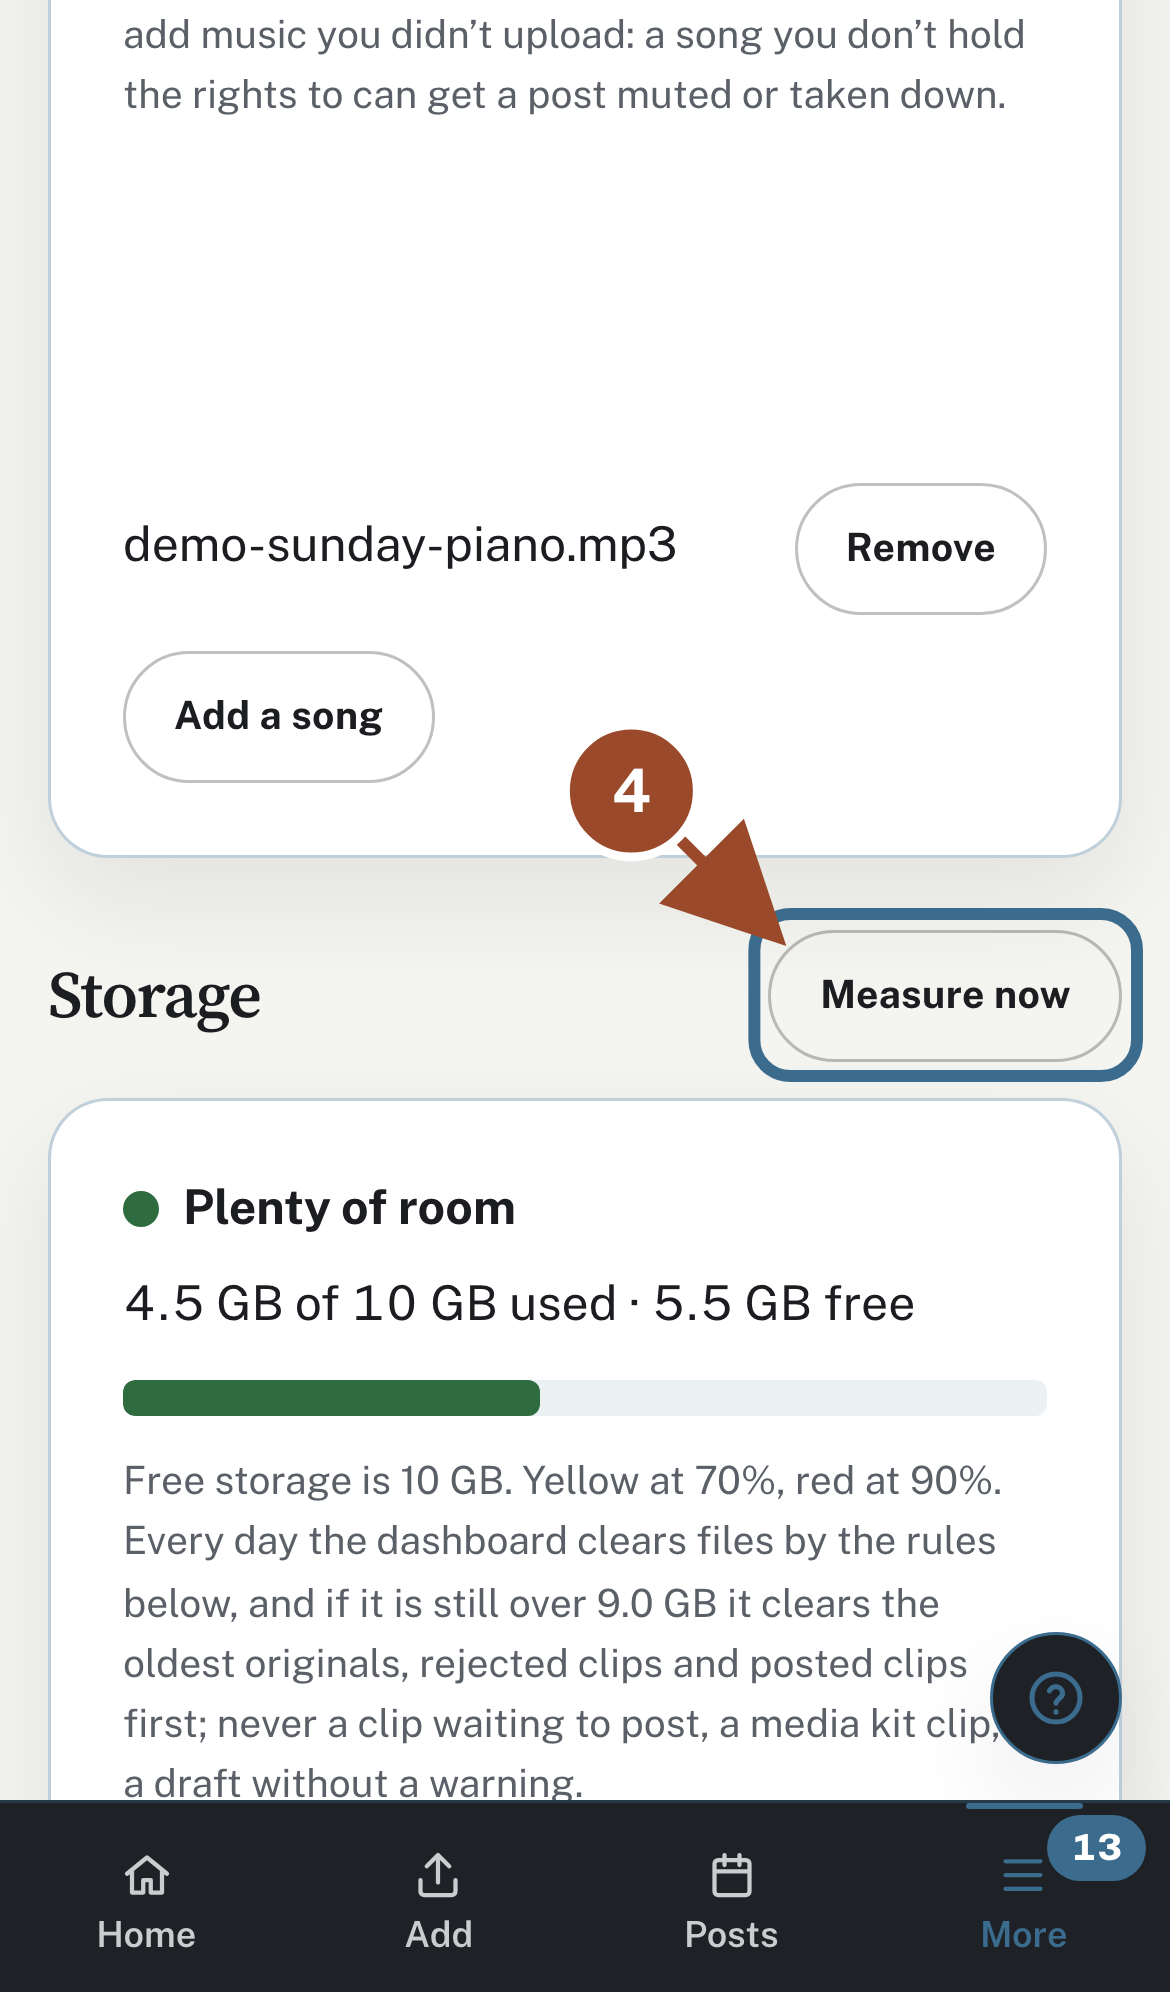
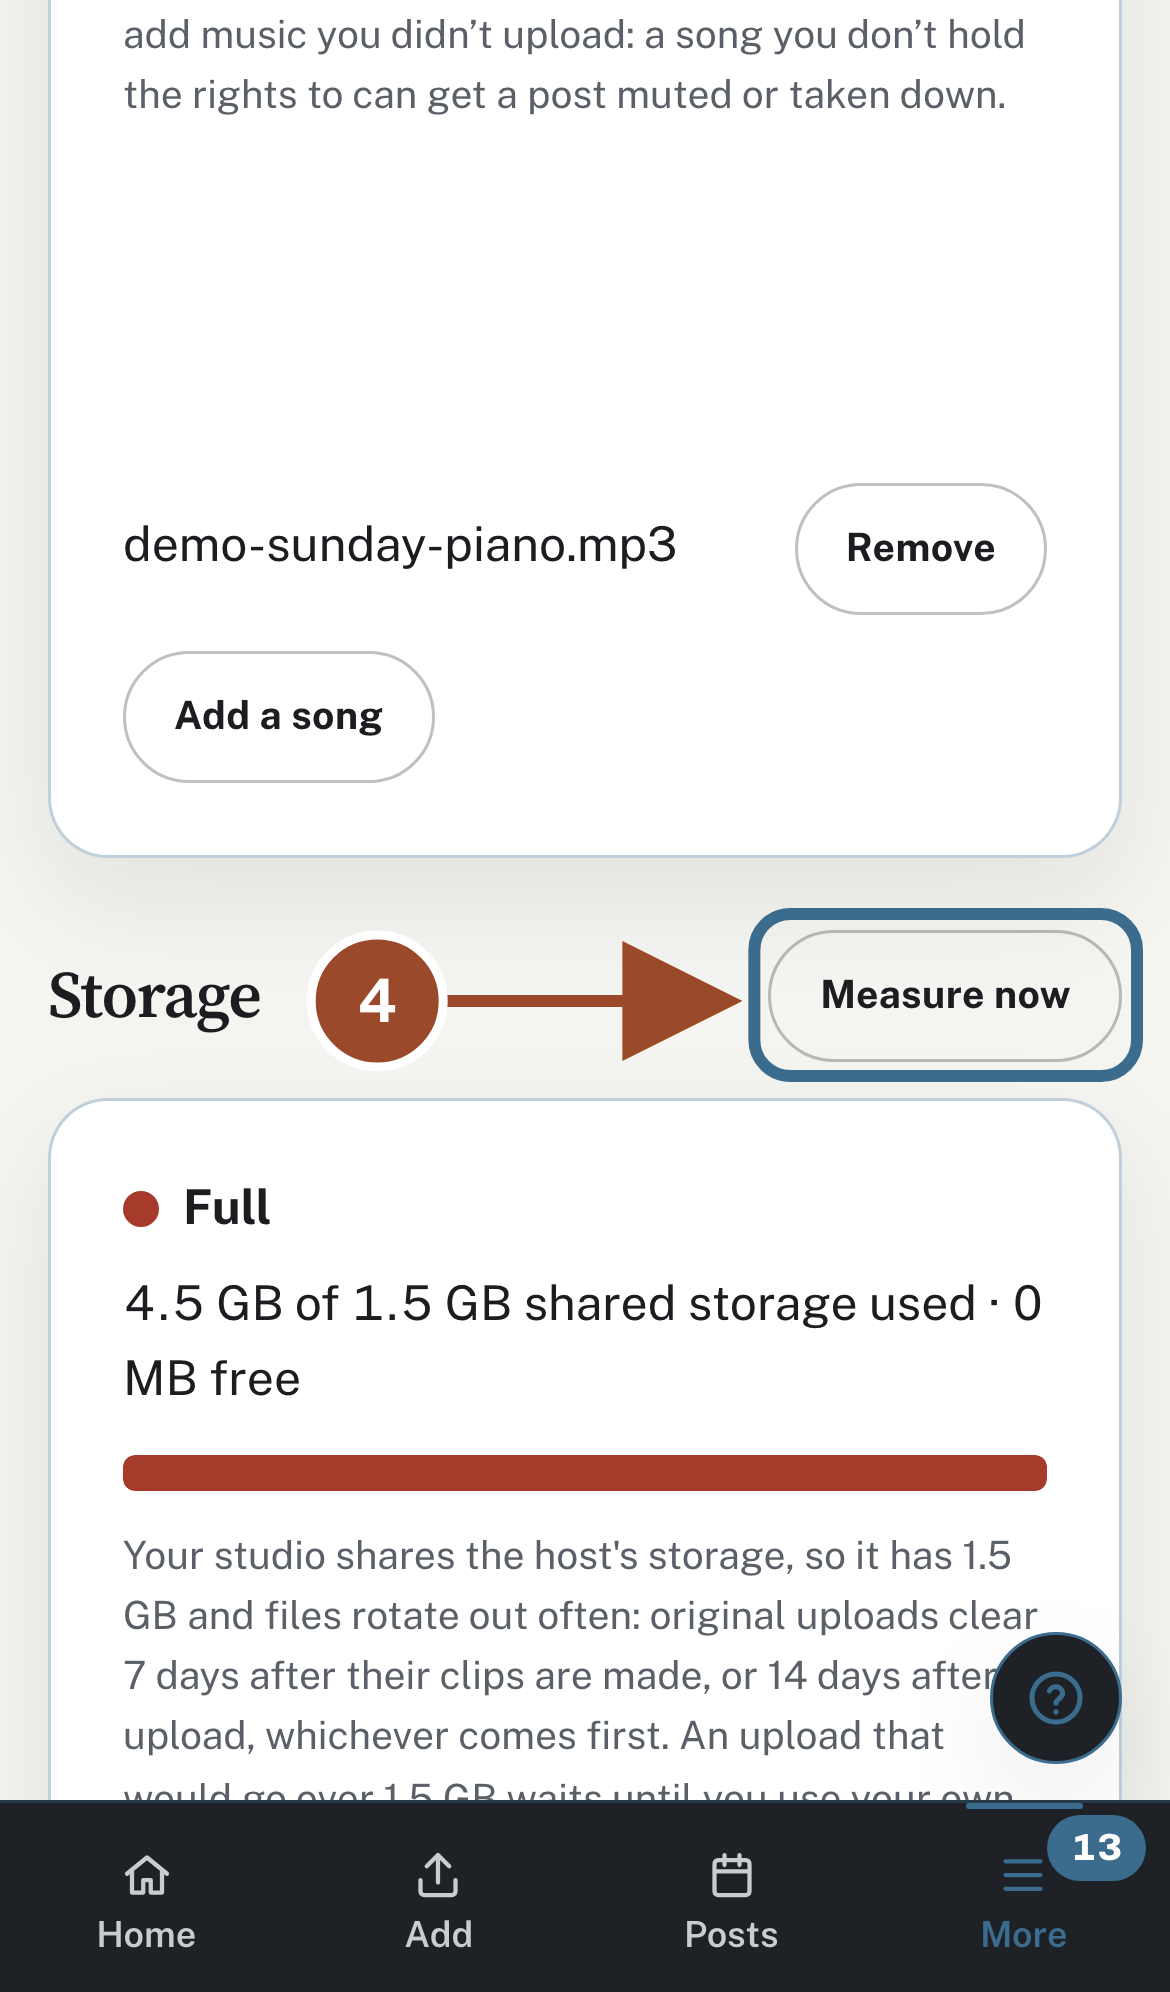
Own storage form opens on every #own-storage arrival; badge arrows stop outside the ring; meter says Full past the share
- Root cause of the own-storage step 4 picture failure: a hash-only move inside Settings does not
  remount, so the form only opened on first load. It now listens for hashchange.
- Margin badges: the arrow tip ends outside the ring, never on words; no arrow when the margin is too narrow.
- The Storage meter and health light say "Full" (not "Almost full") once the share is used up.
- Light and dark pictures for own-storage, storage-and-tidy, storage-almost-full (desktop + phone).

Claude-Session: https://claude.ai/code/session_01CJ98gQuotzmQekevoSTPiy

Changed region(s): [[0.0923, 0.5914, 0.8923, 0.9026], [0.2462, 0.3424, 0.6769, 0.5602], [0.8615, 0.6536, 0.8923, 0.6847]]

diff --git a/tests/e2e/help-screenshots.spec.ts b/tests/e2e/help-screenshots.spec.ts
@@ -229,6 +229,7 @@ async function drawCallout(p: Page, target: import("@playwright/test").Locator, 
       const inY = (y: number) => y >= R + 8 && y <= vh - R - 8;
       let cx: number;
       let cy: number;
+      let margin = false;
       // In the margin beside the ringed element when there is room (never over words), else the old places.
       const left = box.x - 5;
       const right = vw - (box.x + box.width + 5);
@@ -236,14 +237,19 @@ async function drawCallout(p: Page, target: import("@playwright/test").Locator, 
       const r = Math.min(R, Math.floor((side - 6) / 2));
       if (r >= 13) {
         R = r;
+        margin = true;
         cx = left >= right ? left / 2 : vw - right / 2;
         cy = Math.min(Math.max(box.y + R + 2, R + 8), vh - R - 8);
       } else if (inX(box.x - 46) && inY(box.y - 46)) [cx, cy] = [box.x - 46, box.y - 46];
       else if (inY(box.y - 46)) [cx, cy] = [Math.min(vw - R - 8, Math.max(R + 8, box.x + box.width - R - 12)), box.y - 46];
       else if (inY(box.y + box.height + 46)) [cx, cy] = [Math.min(vw - R - 8, Math.max(R + 8, box.x + box.width / 2)), box.y + box.height + 46];
       else [cx, cy] = [Math.min(vw - R - 8, box.x + box.width - R - 12), Math.max(R + 8, box.y + R + 12)];
-      const tx = Math.max(box.x, Math.min(cx, box.x + box.width));
+      // The arrow tip (it reaches 8 px past the line's end) stops outside the ring, never on words;
+      // a margin too narrow for an arrow keeps just the badge beside the ring.
+      const onLeft = cx < box.x;
+      const tx = margin ? (onLeft ? box.x - 17 : box.x + box.width + 17) : Math.max(box.x, Math.min(cx, box.x + box.width));
       const ty = Math.max(box.y, Math.min(cy, box.y + box.height));
+      const arrow = !margin || Math.abs(tx - cx) > R + 14;
       const ns = "http://www.w3.org/2000/svg";
       const svg = document.createElementNS(ns, "svg");
       svg.id = "ss-callout";
@@ -254,7 +260,7 @@ async function drawCallout(p: Page, target: import("@playwright/test").Locator, 
       svg.innerHTML = `
         <defs><marker id="ss-ah" markerWidth="10" markerHeight="10" refX="8" refY="5" orient="auto"><path d="M0,0 L10,5 L0,10 z" style="fill:var(--rose)"/></marker></defs>
         <rect x="${box.x - 5}" y="${box.y - 5}" width="${box.width + 10}" height="${box.height + 10}" rx="12" style="fill:none;stroke:var(--gold);stroke-width:4"/>
-        <line x1="${cx}" y1="${cy}" x2="${tx}" y2="${ty}" style="stroke:var(--rose);stroke-width:4" marker-end="url(#ss-ah)"/>
+        ${arrow ? "" : "<!--"}<line x1="${cx}" y1="${cy}" x2="${tx}" y2="${ty}" style="stroke:var(--rose);stroke-width:4" marker-end="url(#ss-ah)"/>${arrow ? "" : "-->"}
         <circle cx="${cx}" cy="${cy}" r="${R}" style="fill:var(--rose);stroke:var(--ivory);stroke-width:3"/>
         <text x="${cx}" y="${cy + Math.round(R * 0.32)}" text-anchor="middle" style="font-family:var(--font-body);font-size:${Math.round(R * 0.9)}px;font-weight:700;fill:var(--ivory)">${n}</text>`;
       document.body.appendChild(svg);

diff --git a/app/components/StorageSection.tsx b/app/components/StorageSection.tsx
@@ -73,7 +73,7 @@ export function StorageSection({ owner }: { owner: boolean }) {
         <Card>
           <div className="storage-head">
             <Dot light={d.light} />
-            <strong>{WORD[d.light]}</strong>
+            <strong>{d.limit_bytes > 0 && d.used_bytes >= d.limit_bytes ? "Full" : WORD[d.light]}</strong>
             <span className="nums">{d.line}</span>
           </div>
           <div className={`meter storage-meter ${d.light === "green" ? "ok" : d.light === "yellow" ? "warn" : "bad"}`} role="meter" aria-valuemin={0} aria-valuemax={100} aria-valuenow={pct} aria-label={`Storage ${pct}% used`}>
@@ -146,8 +146,17 @@ function OwnStorage({ view, owner, onChange }: { view: StorageAnswer; owner: boo
   const [result, setResult] = useState<{ ok: boolean; text: string } | null>(null);
   const ready = FIELD_LABELS.every((f) => fields[f.name].trim());
 
+  // A link to #own-storage from inside Settings changes only the hash (no remount), so the
+  // form opens on every arrival, not just on first load.
   useEffect(() => {
-    if (window.location.hash === "#own-storage") document.getElementById("own-storage")?.scrollIntoView({ block: "start" });
+    const arrive = () => {
+      if (window.location.hash !== "#own-storage") return;
+      setOpen(true);
+      document.getElementById("own-storage")?.scrollIntoView({ block: "start" });
+    };
+    arrive();
+    window.addEventListener("hashchange", arrive);
+    return () => window.removeEventListener("hashchange", arrive);
   }, []);
 
   async function run(what: "test" | "save") {

diff --git a/worker/lib/storage.ts b/worker/lib/storage.ts
@@ -430,7 +430,7 @@ export async function storageHealth(env: Env): Promise<StorageReport> {
     await setHealth(env.DB, "Storage", "yellow", `${r.line}. ${n} ${n === 1 ? "upload you kept stays" : "uploads you kept stay"} on the shared storage until studio email is set up, so you get the heads-up before they clear`, "setup-email");
     return r;
   }
-  const note = r.light === "green" ? r.line : r.light === "yellow" ? `${r.line}. Filling up: see what takes the space in Settings` : `${r.line}. Almost full: new videos may not upload${r.place === "host" ? ". Add your own storage in Settings → Storage" : ""}`;
+  const note = r.light === "green" ? r.line : r.light === "yellow" ? `${r.line}. Filling up: see what takes the space in Settings` : `${r.line}. ${r.used_bytes >= r.limit_bytes && r.limit_bytes > 0 ? "Full: new uploads wait" : "Almost full: new videos may not upload"}${r.place === "host" ? ". Add your own storage in Settings → Storage" : ""}`;
   await setHealth(env.DB, "Storage", r.light, note, r.light === "green" ? null : r.place === "host" ? "own-storage" : "storage-almost-full");
   return r;
 }
